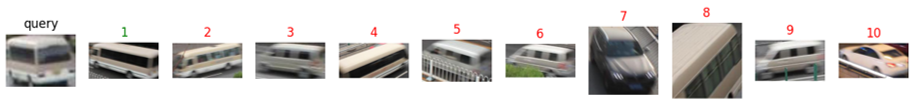
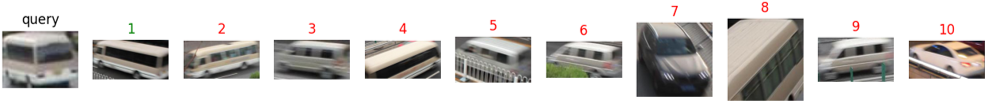
Update nilai V2P2
Kesalahan masukin nilai V2P2

diff --git a/bab/4-pengujian-analisis.tex b/bab/4-pengujian-analisis.tex
@@ -456,16 +456,17 @@ Perbandingan setiap jenis model beserta iterasinya dapat dilihat pada tabel
       \multirow{3}{*}{\textbf{Swin T. V1 Parameter 2}} & \begin{tabular}[c]{@{}l@{}}Iterasi 1\end{tabular} & \begin{tabular}[c]{@{}l@{}}0.743027\end{tabular} & \begin{tabular}[c]{@{}l@{}}0.701530\end{tabular} & \begin{tabular}[c]{@{}l@{}}0.885094\end{tabular} & \begin{tabular}[c]{@{}l@{}}0.925294\end{tabular}\\
       & \begin{tabular}[c]{@{}l@{}}Iterasi 2\end{tabular} & \begin{tabular}[c]{@{}l@{}}0.748120\end{tabular} & \begin{tabular}[c]{@{}l@{}}0.706866\end{tabular} & \begin{tabular}[c]{@{}l@{}}0.890786\end{tabular} & \begin{tabular}[c]{@{}l@{}}0.932053\end{tabular}\\
       & \begin{tabular}[c]{@{}l@{}}Iterasi 3\end{tabular} & \begin{tabular}[c]{@{}l@{}}0.748066\end{tabular} & \begin{tabular}[c]{@{}l@{}}0.706510\end{tabular} & \begin{tabular}[c]{@{}l@{}}0.890430\end{tabular} & \begin{tabular}[c]{@{}l@{}}0.934543\end{tabular}\\ \hline
-      \multirow{3}{*}{\textbf{Swin T. V2 Parameter 2}} & \begin{tabular}[c]{@{}l@{}}\textbf{Iterasi 1}\end{tabular} & \begin{tabular}[c]{@{}l@{}}0.752135\end{tabular} & \begin{tabular}[c]{@{}l@{}}\textbf{0.712202}\end{tabular} & \begin{tabular}[c]{@{}l@{}}\textbf{0.893988}\end{tabular} & \begin{tabular}[c]{@{}l@{}}\textbf{0.930985}\end{tabular}\\
-      & \begin{tabular}[c]{@{}l@{}}Iterasi 2\end{tabular} & \begin{tabular}[c]{@{}l@{}}\textbf{0.752181}\end{tabular} & \begin{tabular}[c]{@{}l@{}}0.711846\end{tabular} & \begin{tabular}[c]{@{}l@{}}0.891853\end{tabular} & \begin{tabular}[c]{@{}l@{}}0.927072\end{tabular}\\
-      & \begin{tabular}[c]{@{}l@{}}Iterasi 3\end{tabular} & \begin{tabular}[c]{@{}l@{}}0.751642\end{tabular} & \begin{tabular}[c]{@{}l@{}}0.712083\end{tabular} & \begin{tabular}[c]{@{}l@{}}0.892802\end{tabular} & \begin{tabular}[c]{@{}l@{}}0.930273\end{tabular}\\ \hline
+      \multirow{3}{*}{\textbf{Swin T. V2 Parameter 2}} & \begin{tabular}[c]{@{}l@{}}Iterasi 1\end{tabular} & \begin{tabular}[c]{@{}l@{}}0.752135\end{tabular} & \begin{tabular}[c]{@{}l@{}}0.712202\end{tabular} & \begin{tabular}[c]{@{}l@{}}\textbf{0.893988}\end{tabular} & \begin{tabular}[c]{@{}l@{}}0.930985\end{tabular}\\
+      & \begin{tabular}[c]{@{}l@{}}Iterasi 2\end{tabular} & \begin{tabular}[c]{@{}l@{}}0.752181\end{tabular} & \begin{tabular}[c]{@{}l@{}}0.711846\end{tabular} & \begin{tabular}[c]{@{}l@{}}0.891853\end{tabular} & \begin{tabular}[c]{@{}l@{}}0.927072\end{tabular}\\
+      & \begin{tabular}[c]{@{}l@{}}\textbf{Iterasi 3}\end{tabular} & \begin{tabular}[c]{@{}l@{}}\textbf{0.752636}\end{tabular} & \begin{tabular}[c]{@{}l@{}}\textbf{0.712202}\end{tabular} & \begin{tabular}[c]{@{}l@{}}0.892565\end{tabular} & \begin{tabular}[c]{@{}l@{}}\textbf{0.932764}\end{tabular}\\ \hline
     \end{tabular}
   \end{center}
 \end{table}
 
-Dari perbandingan tersebut dapat terlihat bahwa model Swin Transformer V2 parameter 2 pada iterasi pertama menjadi model 
-dengan nilai rank@1, dan rank@5 tertinggi dari seluruh model yang telah dibuat serta memiliki selisih 
-0.000046 dengan model yang memiliki mAP tertinggi yaitu Swin Transformer V2 parameter 2 iterasi kedua.
+Dari perbandingan tersebut dapat terlihat bahwa model Swin Transformer V2 parameter 2 pada iterasi ketiga 
+menjadi model dengan nilai mAP, rank@1, dan rank@10 tertinggi dari seluruh model yang telah dibuat serta 
+memiliki selisih 0.001423 dengan model yang memiliki rank@5 tertinggi yaitu Swin Transformer V2 parameter 
+2 iterasi pertama.
 
 \section{Skenario Pengujian}
 \label{sec:skenariopengujian}
@@ -487,7 +488,7 @@ tabel \ref{tb:modelreidentifikasiyangdigunakanpengujian}.
       \begin{tabular}[c]{@{}l@{}}Swin T. V1 Parameter 1\end{tabular} & \begin{tabular}[c]{@{}l@{}}Iterasi 3\end{tabular} & \begin{tabular}[c]{@{}l@{}}0.670210\end{tabular} & \begin{tabular}[c]{@{}l@{}}0.623621\end{tabular}\\ \hline
       \begin{tabular}[c]{@{}l@{}}Swin T. V2 Parameter 1\end{tabular} & \begin{tabular}[c]{@{}l@{}}Iterasi 1\end{tabular} & \begin{tabular}[c]{@{}l@{}}0.725377\end{tabular} & \begin{tabular}[c]{@{}l@{}}0.686233\end{tabular}\\ \hline
       \begin{tabular}[c]{@{}l@{}}Swin T. V1 Parameter 2\end{tabular} & \begin{tabular}[c]{@{}l@{}}Iterasi 2\end{tabular} & \begin{tabular}[c]{@{}l@{}}0.748120\end{tabular} & \begin{tabular}[c]{@{}l@{}}0.706866\end{tabular}\\ \hline
-      \begin{tabular}[c]{@{}l@{}}Swin T. V2 Parameter 2\end{tabular} & \begin{tabular}[c]{@{}l@{}}Iterasi 1\end{tabular} & \begin{tabular}[c]{@{}l@{}}0.752135\end{tabular} & \begin{tabular}[c]{@{}l@{}}0.712202\end{tabular}\\ \hline
+      \begin{tabular}[c]{@{}l@{}}Swin T. V2 Parameter 2\end{tabular} & \begin{tabular}[c]{@{}l@{}}Iterasi 3\end{tabular} & \begin{tabular}[c]{@{}l@{}}0.752636\end{tabular} & \begin{tabular}[c]{@{}l@{}}0.712202\end{tabular}\\ \hline
   \end{tabular}
   \end{center}
 \end{table}
@@ -522,7 +523,7 @@ beserta hasil GradCAM dapat dilihat pada gambar \ref{fig:gambarkueriuntukpenguji
 \end{figure}
 
 Citra galeri yang dicari pada pengujian pertama merupakan citra dengan objek \linebreak minibus yang sesuai dengan gambar 
-\ref{fig:gambarkueriuntukpengujianpertama} dengan sudut pengambilan yang berbeda. Citra galeri beserta hasil GradCam dapat 
+\ref{fig:gambarkueriuntukpengujianpertama} dengan sudut pengambilan yang berbeda. Citra galeri beserta hasil GradCAM dapat 
 dilihat pada gambar \ref{fig:gambargaleriuntukpengujianpertama}.
 
 \begin{figure}[h!]
@@ -582,13 +583,13 @@ peringkat yang dapat terlihat pada gambar \ref{fig:hasilpengujianpertamapadamode
   \label{fig:hasilpengujianpertamapadamodelswintransformerv1param2}
 \end{figure}
 
-Hasil pengujian dari model Swin Transformer V2 parameter 2 dengan iterasi 1 menggunakan citra kueri ke-8 dapat 
+Hasil pengujian dari model Swin Transformer V2 parameter 2 dengan iterasi 3 menggunakan citra kueri ke-8 dapat 
 dilihat pada gambar \ref{fig:hasilpengujianpertamapadamodelswintransformerv2param2}.
 
 \begin{figure}[h!]
   \centering
   % Nama dari file gambar yang diinputkan
-  \includegraphics[scale=0.6]{gambar/Que8V2P2IT1.png}
+  \includegraphics[scale=0.6]{gambar/Que8V2P2IT3.png}
   % Keterangan gambar yang diinputkan
   \caption{Hasil Pengujian Pertama pada Model Swin Transformer V2 Parameter 2}
   % Label referensi dari gambar yang diinputkan
@@ -601,8 +602,8 @@ berada pada peringkat pertama di hasil pengujian dari setiap model re-identifika
 
 \subsection{Pengujian Kedua}
 
-Pengujian kedua menggunakan sebuah citra kueri ke-57 dengan objek mobil sedan berwarna biru tua yang terlihat dari samping 
-dengan adanya blur. Citra kueri beserta hasil GradCam dapat dilihat pada gambar \ref{fig:gambarkueriuntukpengujiankedua}.
+Pengujian kedua menggunakan sebuah citra kueri ke-57 dengan objek mobil sedan \linebreak berwarna biru tua yang terlihat dari samping 
+dengan adanya blur. Citra kueri beserta hasil GradCAM dapat dilihat pada gambar \ref{fig:gambarkueriuntukpengujiankedua}.
 
 \begin{figure}[h!]
   \centering
@@ -624,7 +625,7 @@ dengan adanya blur. Citra kueri beserta hasil GradCam dapat dilihat pada gambar 
 
 Citra galeri yang dicari pada pengujian kedua merupakan citra dengan objek \linebreak mobil sedan berwarna biru tua 
 yang sesuai dengan gambar \ref{fig:gambarkueriuntukpengujiankedua} dengan sudut pengambilan yang berbeda. Citra galeri 
-beserta hasil GradCam dapat dilihat pada gambar \ref{fig:gambargaleriuntukpengujiankedua}.
+beserta hasil GradCAM dapat dilihat pada gambar \ref{fig:gambargaleriuntukpengujiankedua}.
 
 \begin{figure}[h!]
   \centering
@@ -683,15 +684,15 @@ peringkat yang dapat terlihat pada gambar \ref{fig:hasilpengujiankeduapadamodels
   \label{fig:hasilpengujiankeduapadamodelswintransformerv1param2}
 \end{figure}
 
-Hasil pengujian dari model Swin Transformer V2 parameter 2 dengan iterasi 1 menggunakan gambar citra ke-57 dapat 
+Hasil pengujian dari model Swin Transformer V2 parameter 2 dengan iterasi 3 menggunakan gambar citra ke-57 dapat 
 dilihat pada gambar \ref{fig:hasilpengujiankeduapadamodelswintransformerv2param2}.
 
 \begin{figure}[h!]
   \centering
   % Nama dari file gambar yang diinputkan
-  \includegraphics[scale=0.6]{gambar/Que57V2P2IT1.png}
+  \includegraphics[scale=0.6]{gambar/Que57V2P2IT3.png}
   % Keterangan gambar yang diinputkan
-  \caption{Hasil Pengujian Pertama pada Model Swin Transformer V2 Parameter 2}
+  \caption{Hasil Pengujian Kedua pada Model Swin Transformer V2 Parameter 2}
   % Label referensi dari gambar yang diinputkan
   \label{fig:hasilpengujiankeduapadamodelswintransformerv2param2}
 \end{figure}
@@ -704,8 +705,8 @@ berada pada peringkat pertama di hasil pengujian pada setiap model re-identifika
 
 \subsection{Pengujian Ketiga}
 
-Pengujian ketiga menggunakan sebuah citra kueri ke-61 dengan objek mobil sedan berwarna putih. Citra kueri 
-beserta hasil GradCam dapat dilihat pada gambar \ref{fig:gambarkueriuntukpengujianketiga}.
+Pengujian ketiga menggunakan sebuah citra kueri ke-61 dengan objek mobil sedan \linebreak berwarna putih. Citra kueri 
+beserta hasil GradCAM dapat dilihat pada gambar \ref{fig:gambarkueriuntukpengujianketiga}.
 
 \begin{figure}[h!]
   \centering
@@ -727,7 +728,7 @@ beserta hasil GradCam dapat dilihat pada gambar \ref{fig:gambarkueriuntukpenguji
 
 Citra galeri yang dicari pada pengujian ketiga merupakan citra dengan objek mobil sedan berwarna putih 
 yang sesuai dengan gambar \ref{fig:gambarkueriuntukpengujianketiga} dengan sudut pengambilan yang berbeda. 
-Citra galeri beserta hasil GradCam dapat dilihat pada gambar \ref{fig:gambargaleriuntukpengujianketiga}.
+Citra galeri beserta hasil GradCAM dapat dilihat pada gambar \ref{fig:gambargaleriuntukpengujianketiga}.
 
 \begin{figure}[h!]
   \centering
@@ -786,13 +787,13 @@ peringkat yang dapat terlihat pada gambar \ref{fig:hasilpengujianketigapadamodel
   \label{fig:hasilpengujianketigapadamodelswintransformerv1param2}
 \end{figure}
 
-Hasil pengujian dari model Swin Transformer V2 parameter 2 dengan iterasi 1 menggunakan citra kueri ke-61 dapat 
+Hasil pengujian dari model Swin Transformer V2 parameter 2 dengan iterasi 3 menggunakan citra kueri ke-61 dapat 
 dilihat pada gambar \ref{fig:hasilpengujianketigapadamodelswintransformerv2param2}.
 
 \begin{figure}[h!]
   \centering
   % Nama dari file gambar yang diinputkan
-  \includegraphics[scale=0.6]{gambar/Que61V2P2IT1.png}
+  \includegraphics[scale=0.6]{gambar/Que61V2P2IT3.png}
   % Keterangan gambar yang diinputkan
   \caption{Hasil Pengujian Ketiga pada Model Swin Transformer V2 Parameter 2}
   % Label referensi dari gambar yang diinputkan
@@ -808,7 +809,7 @@ berada pada peringkat pertama di hasil pengujian pada setiap model re-identifika
 \subsection{Pengujian Keempat}
 
 Pengujian keempat menggunakan sebuah citra kueri ke-21 dengan objek mobil sedan berwarna merah. Citra kueri 
-beserta hasil GradCam dapat dilihat pada gambar \ref{fig:gambarkueriuntukpengujiankeempat}.
+beserta hasil GradCAM dapat dilihat pada gambar \ref{fig:gambarkueriuntukpengujiankeempat}.
 
 \begin{figure}[h!]
   \centering
@@ -830,7 +831,7 @@ beserta hasil GradCam dapat dilihat pada gambar \ref{fig:gambarkueriuntukpenguji
 
 Citra galeri yang dicari pada pengujian keempat merupakan citra dengan objek \linebreak mobil sedan berwarna merah 
 yang sesuai dengan gambar \ref{fig:gambarkueriuntukpengujiankeempat} dengan sudut pengambilan yang berbeda. 
-Citra galeri beserta hasil GradCam dapat dilihat pada gambar \ref{fig:gambargaleriuntukpengujiankeempat}.\\
+Citra galeri beserta hasil GradCAM dapat dilihat pada gambar \ref{fig:gambargaleriuntukpengujiankeempat}.\\
 
 \begin{figure}[h!]
   \centering
@@ -889,13 +890,13 @@ peringkat yang dapat terlihat pada gambar \ref{fig:hasilpengujiankeempatpadamode
   \label{fig:hasilpengujiankeempatpadamodelswintransformerv1param2}
 \end{figure}
 
-Hasil pengujian dari model Swin Transformer V2 parameter 2 dengan iterasi 1 menggunakan citra kueri ke-21 dapat 
+Hasil pengujian dari model Swin Transformer V2 parameter 2 dengan iterasi 3 menggunakan citra kueri ke-21 dapat 
 dilihat pada gambar \ref{fig:hasilpengujiankeempatpadamodelswintransformerv2param2}.
 
 \begin{figure}[h!]
   \centering
   % Nama dari file gambar yang diinputkan
-  \includegraphics[scale=0.6]{gambar/Que21V2P2IT1.png}
+  \includegraphics[scale=0.6]{gambar/Que21V2P2IT3.png}
   % Keterangan gambar yang diinputkan
   \caption{Hasil Pengujian Keempat pada Model Swin Transformer V2 Parameter 2}
   % Label referensi dari gambar yang diinputkan
@@ -915,7 +916,7 @@ V2 parameter 2 (gambar \ref{fig:hasilpengujiankeempatpadamodelswintransformerv2p
 \subsection{Pengujian Kelima}
 
 Pengujian kelima menggunakan sebuah citra kueri ke-9 dengan objek mobil suv berwarna hitam. Citra kueri 
-beserta hasil GradCam dapat dilihat pada gambar \ref{fig:gambarkueriuntukpengujiankelima}.
+beserta hasil GradCAM dapat dilihat pada gambar \ref{fig:gambarkueriuntukpengujiankelima}.
 
 \begin{figure}[h!]
   \centering
@@ -937,7 +938,7 @@ beserta hasil GradCam dapat dilihat pada gambar \ref{fig:gambarkueriuntukpenguji
 
 Citra galeri yang dicari pada pengujian kelima merupakan citra dengan objek \linebreak mobil suv berwarna hitam 
 yang sesuai dengan gambar \ref{fig:gambarkueriuntukpengujiankelima} dengan sudut pengambilan yang berbeda. 
-Citra galeri beserta hasil GradCam dapat dilihat pada gambar \ref{fig:gambargaleriuntukpengujiankelima}.
+Citra galeri beserta hasil GradCAM dapat dilihat pada gambar \ref{fig:gambargaleriuntukpengujiankelima}.
 
 \begin{figure}[h!]
   \centering
@@ -996,13 +997,13 @@ peringkat yang dapat terlihat pada gambar \ref{fig:hasilpengujiankelimapadamodel
   \label{fig:hasilpengujiankelimapadamodelswintransformerv1param2}
 \end{figure}
 
-Hasil pengujian dari model Swin Transformer V2 parameter 2 dengan iterasi 1 menggunakan citra kueri ke-9 dapat 
+Hasil pengujian dari model Swin Transformer V2 parameter 2 dengan iterasi 3 menggunakan citra kueri ke-9 dapat 
 dilihat pada gambar \ref{fig:hasilpengujiankelimapadamodelswintransformerv2param2}.
 
 \begin{figure}[h!]
   \centering
   % Nama dari file gambar yang diinputkan
-  \includegraphics[scale=0.6]{gambar/Que9V2P2IT1.png}
+  \includegraphics[scale=0.6]{gambar/Que9V2P2IT3.png}
   % Keterangan gambar yang diinputkan
   \caption{Hasil Pengujian Kelima pada Model Swin Transformer V2 Parameter 2}
   % Label referensi dari gambar yang diinputkan
@@ -1015,13 +1016,13 @@ gagal dalam melakukan re-identifikasi, karena citra kueri yang benar tidak berad
 \ref{fig:hasilpengujiankelimapadamodelswintransformerv2param1}). Sementara pada Swin Transformer V1 parameter 2, citra 
 galeri hanya berada pada peringkat ke-7 (gambar \ref{fig:hasilpengujiankelimapadamodelswintransformerv1param2}). 
 Dan untuk Swin Transformer V2 parameter 2, dapat melakukan 
-re-identifikasi namun citra galeri hanya berada pada peringkat ke-2 seperti yang terlihat pada gambar 
+re-identifikasi dengan citra galeri berada pada peringkat pertama seperti yang terlihat pada gambar 
 \ref{fig:hasilpengujiankelimapadamodelswintransformerv2param2}.
 
 \subsection{Pengujian Keenam}
 
 Pengujian keenam menggunakan sebuah citra kueri ke-29 dengan objek mobil taksi \linebreak berwarna biru tua dan oranye, dengan sebagian 
-badan mobil tertutup oleh objek lain. Citra kueri beserta hasil GradCam dapat dilihat pada gambar 
+badan mobil tertutup oleh objek lain. Citra kueri beserta hasil GradCAM dapat dilihat pada gambar 
 \ref{fig:gambarkueriuntukpengujiankeenam}.
 
 \begin{figure}[h!]
@@ -1044,7 +1045,7 @@ badan mobil tertutup oleh objek lain. Citra kueri beserta hasil GradCam dapat di
 
 Citra galeri yang dicari pada pengujian keenam merupakan citra dengan objek mobil taksi berwarna biru tua 
 dan oranye yang sesuai dengan gambar \ref{fig:gambarkueriuntukpengujiankeenam} dengan sudut pengambilan yang berbeda. 
-Citra galeri beserta hasil GradCam dapat dilihat pada gambar \ref{fig:gambargaleriuntukpengujiankeenam}.
+Citra galeri beserta hasil GradCAM dapat dilihat pada gambar \ref{fig:gambargaleriuntukpengujiankeenam}.
 
 \begin{figure}[h!]
   \centering
@@ -1103,13 +1104,13 @@ peringkat yang dapat terlihat pada gambar \ref{fig:hasilpengujiankeenampadamodel
   \label{fig:hasilpengujiankeenampadamodelswintransformerv1param2}
 \end{figure}
 
-Hasil pengujian dari model Swin Transformer V2 parameter 2 dengan iterasi 1 menggunakan citra kueri ke-29 dapat 
+Hasil pengujian dari model Swin Transformer V2 parameter 2 dengan iterasi 3 menggunakan citra kueri ke-29 dapat 
 dilihat pada gambar \ref{fig:hasilpengujiankeenampadamodelswintransformerv2param2}.
 
 \begin{figure}[h!]
   \centering
   % Nama dari file gambar yang diinputkan
-  \includegraphics[scale=0.6]{gambar/Que29V2P2IT1.png}
+  \includegraphics[scale=0.6]{gambar/Que29V2P2IT3.png}
   % Keterangan gambar yang diinputkan
   \caption{Hasil Pengujian Keenam pada Model Swin Transformer V2 Parameter 2}
   % Label referensi dari gambar yang diinputkan
@@ -1118,26 +1119,26 @@ dilihat pada gambar \ref{fig:hasilpengujiankeenampadamodelswintransformerv2param
 
 Dari pengujian keenam, didapatkan hasil bahwa seluruh model Swin Transformer pada penelitian ini tidak mampu dalam melakukan 
 re-identifikasi ketika diberikan citra yang objeknya tertimpa oleh objek lain. Hal ini dapat dilihat dari hasil peringkat 
-sepuluh teratas dari setiap model tidak menunjukan adanya citra galeri (gambar \ref{fig:gambargaleriuntukpengujiankeenam}) 
-pada daftar peringkat yang ada. Hasil pengujian ini memperlihatkan bahwa jika citra kueri dengan objek yang setengah utuh 
+sepuluh teratas dari setiap model tidak menunjukan adanya citra galeri (gambar \ref{fig:gambargaleriuntukpengujiankeenam}). 
+Hasil pengujian ini memperlihatkan bahwa jika citra kueri dengan objek yang setengah utuh 
 ingin diidentifikasi ulang, model re-identifikasi kesulitan untuk mengenali objek tersebut.
 
 \subsection{Pengujian Ketujuh}
 
 Pengujian ketujuh menggunakan sebuah citra kueri ke-70 dengan objek mobil suv \linebreak berwarna hitam. Citra kueri 
-beserta hasil GradCam dapat dilihat pada gambar \ref{fig:gambarkueriuntukpengujianketujuh}.
+beserta hasil GradCAM dapat dilihat pada gambar \ref{fig:gambarkueriuntukpengujianketujuh}.
 
 \begin{figure}[h!]
   \centering
   \begin{subfigure}{.5\textwidth}
     \centering
-    \includegraphics[width=.4\linewidth]{gambar/Que70_114.jpg}
+    \includegraphics[width=.5\linewidth]{gambar/Que70_114.jpg}
     \caption{Citra Kueri ke-70}
     \label{gambarkuerinomortujuhpuluh}
   \end{subfigure}%
   \begin{subfigure}{.5\textwidth}
     \centering
-    \includegraphics[width=.4\linewidth]{gambar/GradCamQue70_114.jpg}
+    \includegraphics[width=.5\linewidth]{gambar/GradCamQue70_114.jpg}
     \caption{GradCam Citra Kueri ke-70}
     \label{gradcamgambarkuerinomortujuhpuluh}
   \end{subfigure}
@@ -1147,19 +1148,19 @@ beserta hasil GradCam dapat dilihat pada gambar \ref{fig:gambarkueriuntukpenguji
 
 Citra galeri yang dicari pada pengujian ketujuh merupakan citra dengan objek mobil suv berwarna hitam 
 yang sesuai dengan gambar \ref{fig:gambarkueriuntukpengujianketujuh} dengan sudut pengambilan yang berbeda. 
-Citra galeri beserta hasil GradCam dapat dilihat pada gambar \ref{fig:gambargaleriuntukpengujianketujuh}.
+Citra galeri beserta hasil GradCAM dapat dilihat pada gambar \ref{fig:gambargaleriuntukpengujianketujuh}.
 
 \begin{figure}[h!]
   \centering
   \begin{subfigure}{.5\textwidth}
     \centering
-    \includegraphics[width=.4\linewidth]{gambar/Gal70_114.jpg}
+    \includegraphics[width=.5\linewidth]{gambar/Gal70_114.jpg}
     \caption{Citra Galeri yang Dicari}
     \label{gambargalerinomortujuhpuluh}
   \end{subfigure}%
   \begin{subfigure}{.5\textwidth}
     \centering
-    \includegraphics[width=.4\linewidth]{gambar/GradCamGal70_114.jpg}
+    \includegraphics[width=.5\linewidth]{gambar/GradCamGal70_114.jpg}
     \caption{GradCam Citra Galeri yang Dicari}
     \label{gradcamgambargalerinomortujuhpuluh}
   \end{subfigure}
@@ -1206,13 +1207,13 @@ peringkat yang dapat terlihat pada gambar \ref{fig:hasilpengujianketujuhpadamode
   \label{fig:hasilpengujianketujuhpadamodelswintransformerv1param2}
 \end{figure}
 
-Hasil pengujian dari model Swin Transformer V2 parameter 2 dengan iterasi 1 menggunakan citra kueri ke-70 dapat 
+Hasil pengujian dari model Swin Transformer V2 parameter 2 dengan iterasi 3 menggunakan citra kueri ke-70 dapat 
 dilihat pada gambar \ref{fig:hasilpengujianketujuhpadamodelswintransformerv2param2}.
 
 \begin{figure}[h!]
   \centering
   % Nama dari file gambar yang diinputkan
-  \includegraphics[scale=0.6]{gambar/Que70V2P2IT1.png}
+  \includegraphics[scale=0.6]{gambar/Que70V2P2IT3.png}
   % Keterangan gambar yang diinputkan
   \caption{Hasil Pengujian Ketujuh pada Model Swin Transformer V2 Parameter 2}
   % Label referensi dari gambar yang diinputkan

diff --git a/bab/5-penutup.tex b/bab/5-penutup.tex
@@ -13,12 +13,12 @@ ditarik beberapa kesimpulan sebagai berikut:
 
   \item Pembuatan Model Re-Identifikasi dengan metode Swin Transformer untuk 
   mengidentifikasi ulang mobil berhasil dibuat dengan nilai mAP tertinggi yang didapat 
-  di penelitian ini sebesar 75.21\% dan rank@1 tertinggi sebesar 71.2\%.
+  di penelitian ini sebesar 75.26\% dan rank@1 tertinggi sebesar 71.22\%.
 
   \item Dari keseluruhan model yang telah dibuat pada penelitian ini, 
   model terbaik yang dapat digunakan untuk model re-identifikasi mobil adalah 
   Swin Transformer V2 dengan pengaturan parameter 2. Hal ini dibuktikan dengan nilai 
-  mAP rata-rata yang didapat sebesar 75.1\% dan rank@1 rata-rata sebesar 71.2\%
+  mAP rata-rata yang didapat sebesar 75.16\% dan rank@1 rata-rata sebesar 71.2\%
 
   \item Arsitektur Swin Transformer cocok digunakan untuk menyelesaikan permasalahan 
   re-identifikasi kendaraan karena dapat mengidentifikasi citra dengan resolusi yang cukup 
